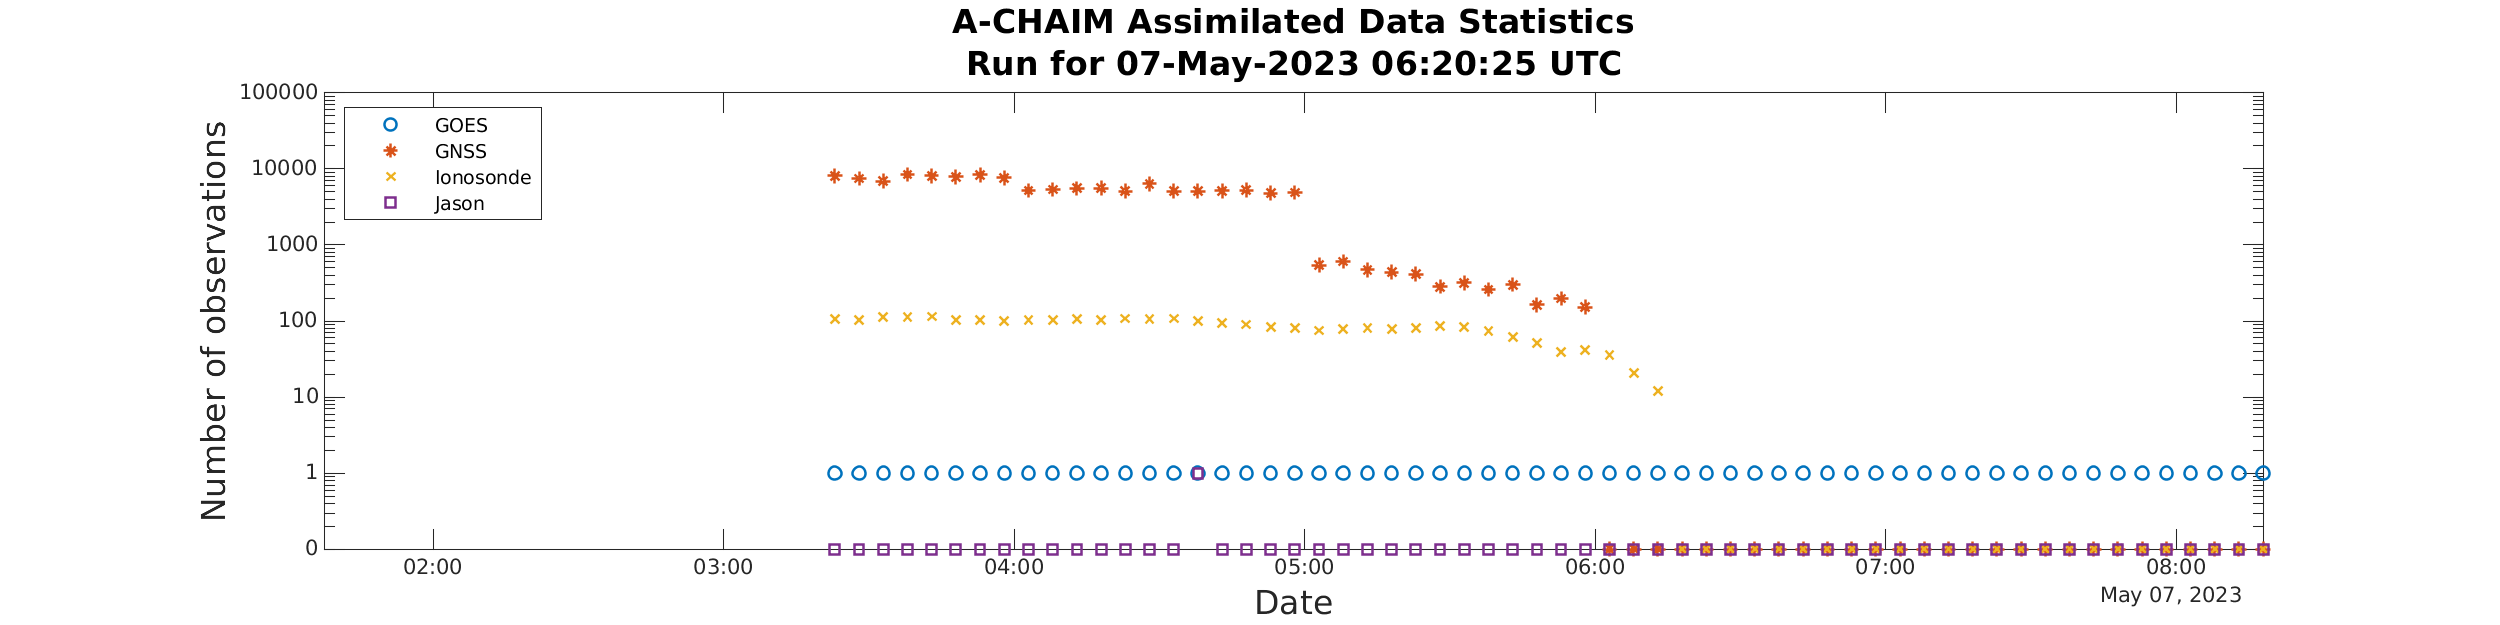
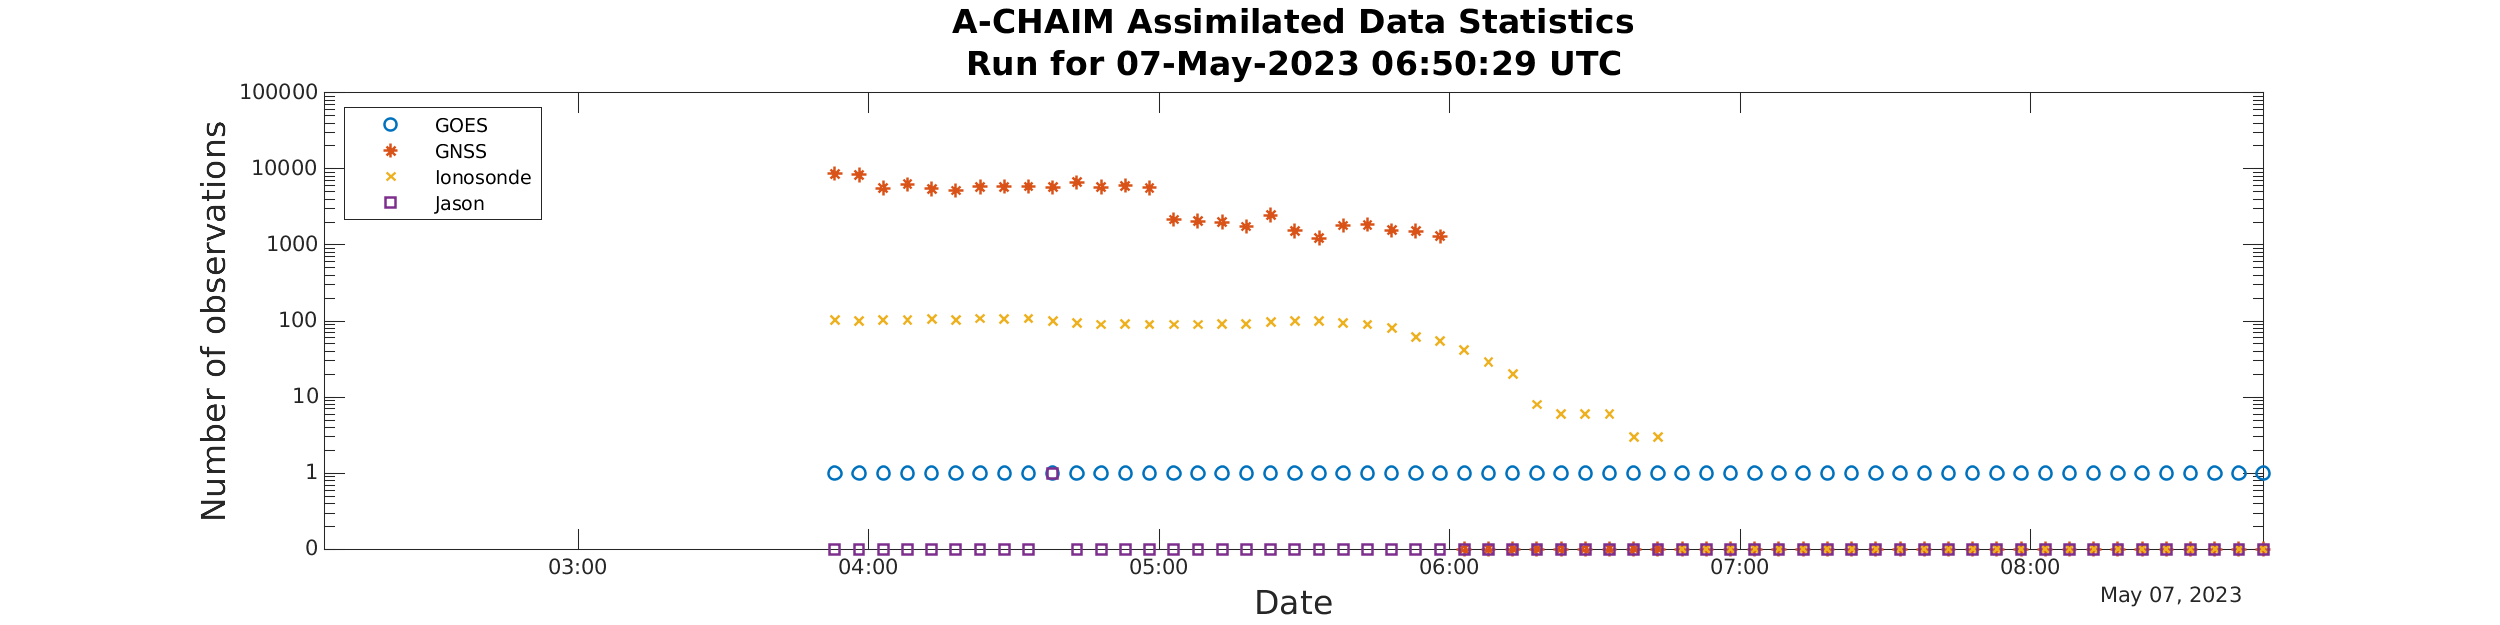
update 2023-05-07 07:14:33

diff --git a/_posts/2023-05-07-06-50-29.md b/_posts/2023-05-07-06-50-29.md
@@ -1,8 +1,8 @@
 ---
 layout: post
-title: "2023-05-07 06:20:25"
+title: "2023-05-07 06:50:29"
 subtitle: "ModelData Issues: 2; A-CHAIM System Issues: 1"
-
+permalink: /latest/
 ---
 
 ![]({{ "/assets/img/achaimDataStatsShort-2312706.png" | relative_url }})
@@ -17,15 +17,15 @@ subtitle: "ModelData Issues: 2; A-CHAIM System Issues: 1"
 ### ModelData Issues:  
   
 {: .box-warning}  
- ModelData report for 07-May-2023 06:20:12   
+ ModelData report for 07-May-2023 06:50:16   
  /home/chaim/ACHAIM_SERVER/A-CHAIM/modelData/2023/127/06/modelData.mat   
- 0% of all possible stations for KASI were downloaded. x2872   
- 0% of all possible stations for CHAIN were downloaded. x1833   
+ 0% of all possible stations for KASI were downloaded. x2873   
+ 0% of all possible stations for CHAIN were downloaded. x1834   
   
 ### A-CHAIM System Issues:  
   
 {: .box-error}  
-2023-05-07 05:50:18 Conversion to logical from string is not possible.  
+2023-05-07 06:50:24 Conversion to logical from string is not possible.  
 
 ### Logs:  
   
